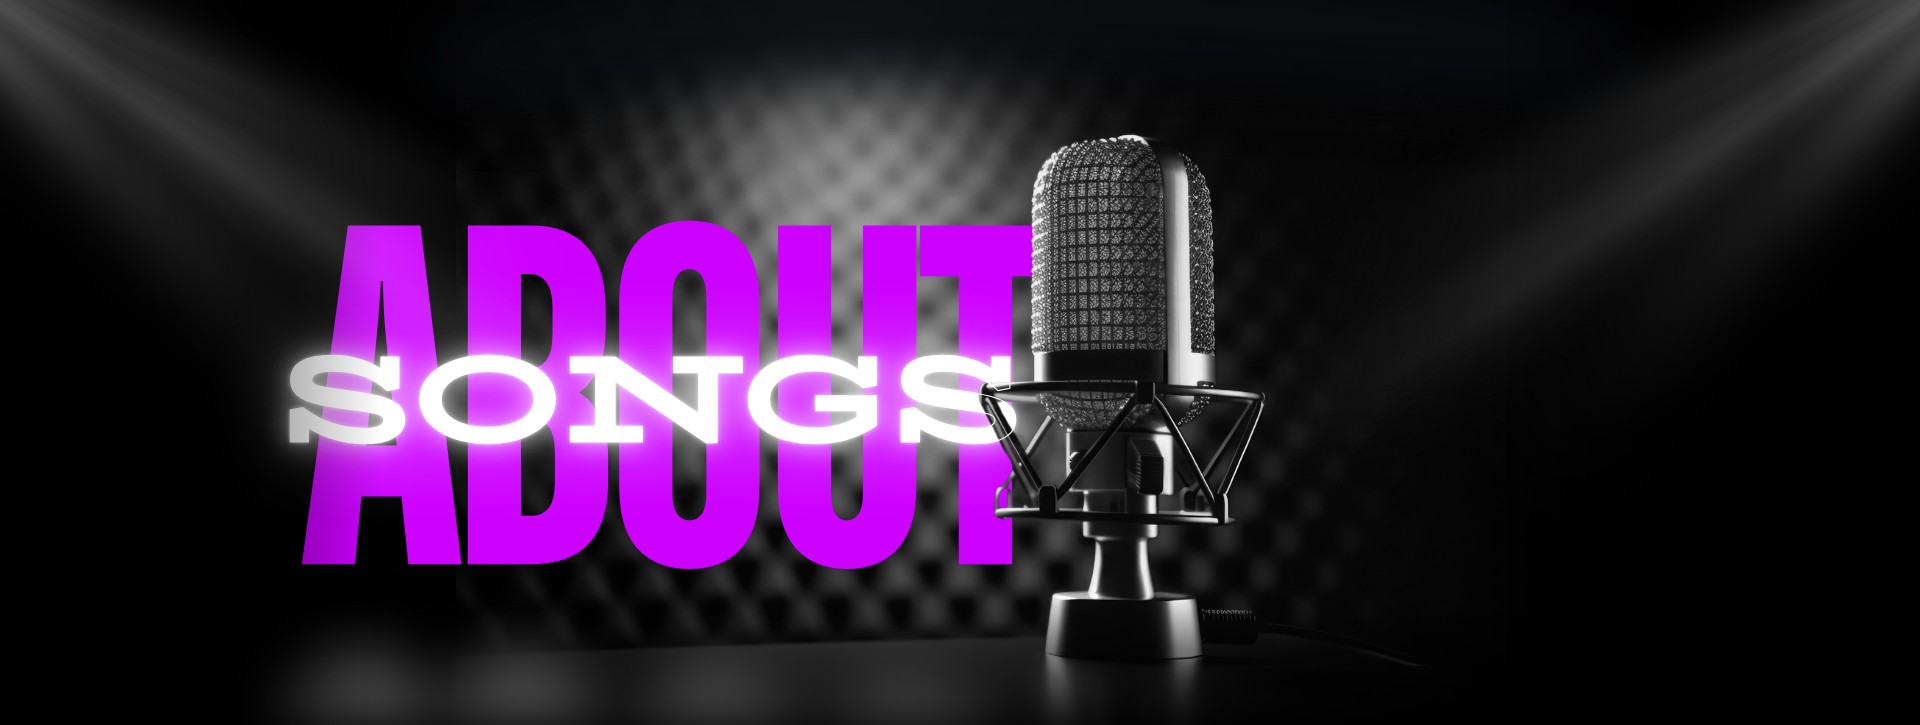
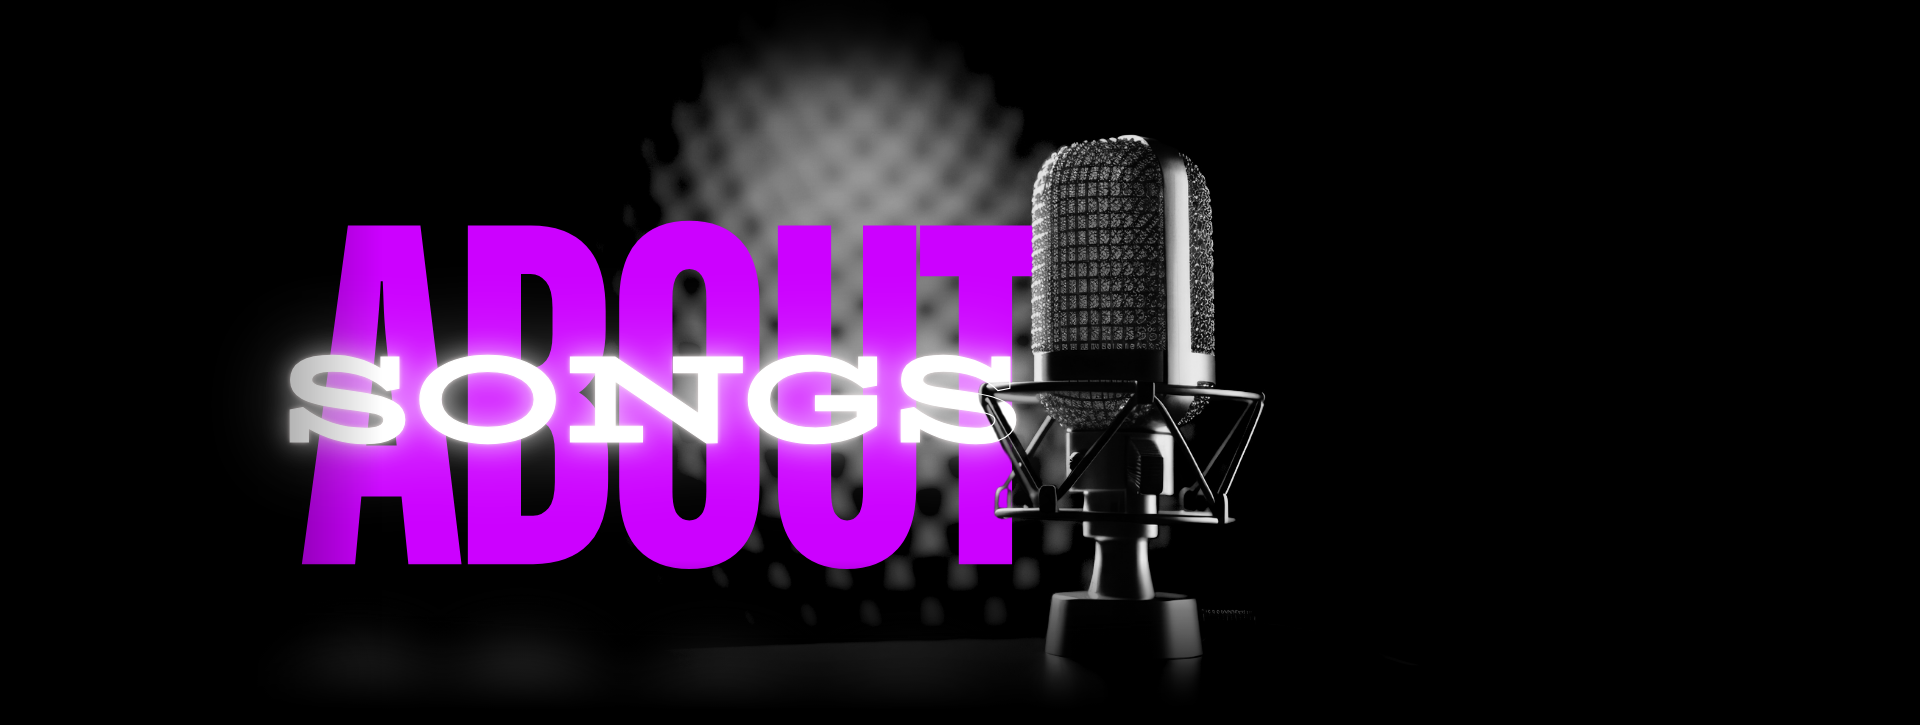
Atualizando

diff --git a/Paginas-HTML/Assets/CSS/Global/Reset.css b/Paginas-HTML/Assets/CSS/Global/Reset.css
@@ -57,21 +57,28 @@ a {
     background: linear-gradient(#000000 55%, #00000000 100%);
     gap: 45px;
 
-    & .h-logo {
-        width: 235px;
-        height: auto;
-        background-color: #80808000;
-        border-radius: 1.5px;
-        margin-bottom: 3.5px;
+    & a {
 
-        transition: all .35s ease-out;
-        filter: drop-shadow(0 0 10px #000000a6);
-
-        &:hover {
-            transform: scale(1.02);
-            transition: all .25s ease-in;
+        & .h-logo {
+            width: 235px;
+            height: auto;
+            background-color: #80808000;
+            border-radius: 1.5px;
+            margin-bottom: 3.5px;
+    
+            transition: all .35s ease-out;
+            filter: drop-shadow(0 0 10px #000000a6);
         }
+
+        &:hover .h-logo {
+            transform: scale(1.025);
+            transition: all .25s ease-in;
+            filter: drop-shadow(0 0 10px #bbbbbba6);
+        }
+
     }
+
+    
 
     & .nav-bar {
         width: auto;

diff --git a/Paginas-HTML/Assets/CSS/Styles/AbaSobreCon.css b/Paginas-HTML/Assets/CSS/Styles/AbaSobreCon.css
@@ -9,34 +9,6 @@
     gap: 50px;
 }
 
-.line {
-    width: 45%;
-    height: .5px;
-    background-color: #303030;
-}
-
-.icon-a, .icon-b, .icon-c {
-    color: #808080;
-    text-shadow: 0 0 10px #6b6b6b;
-    font-size: 29pt;
-    position: absolute;
-}
-
-.icon-a {
-    top: 41.5%;
-    left: 23.2%;
-}
-
-.icon-b {
-    top: 85.2%;
-    right: 23.2%;
-}
-
-.icon-c {
-    top: 128.2%;
-    left: 23.2%;
-}
-
 .inicio {
     width: 100%;
     height: auto;
@@ -62,18 +34,18 @@
     flex-direction: column;
     justify-content: center;
     align-items: start;
-    gap: 10px;
+    gap: 20px;
 
     & .t-first, .t-third {
         width: 100%;
         height: auto;
-        font-size: 12pt;
+        font-size: 17pt;
     }
 
     & .text-first, .text-third {
         width: 40%;
         height: auto;
-        font-size: 11pt;
+        font-size: 14pt;
         color: #dddddd;
     }
 }

diff --git a/Paginas-HTML/Paginas/PageAlbum.html b/Paginas-HTML/Paginas/PageAlbum.html
@@ -6,7 +6,7 @@
     <meta name="viewport" content="width=device-width, initial-scale=1.0">
     <!-- --========================================================================================================-- -->
     <!-- Título -->
-    <title>AboutSongs</title>
+    <title>AboutSongs - VULTURES 2</title>
     <!-- --========================================================================================================-- -->
     <!-- Favicon -->
     <link rel="shortcut icon" href="../Assets/Images/favicon.png" type="image/x-icon">

diff --git a/Paginas-HTML/Paginas/PageHome.html b/Paginas-HTML/Paginas/PageHome.html
@@ -42,7 +42,7 @@
     <main class="page">
         <!-- Section da imagem principal -->
         <section class="inicio" id="home">
-            <img class="banner" src="../Assets/Images/aboutsong_s.png" alt="">
+            <img class="banner" src="../Assets/Images/aboutsong_.png" alt="">
             <img class="lights" src="../Assets/Images/lights.png" alt="">
         </section>
 
